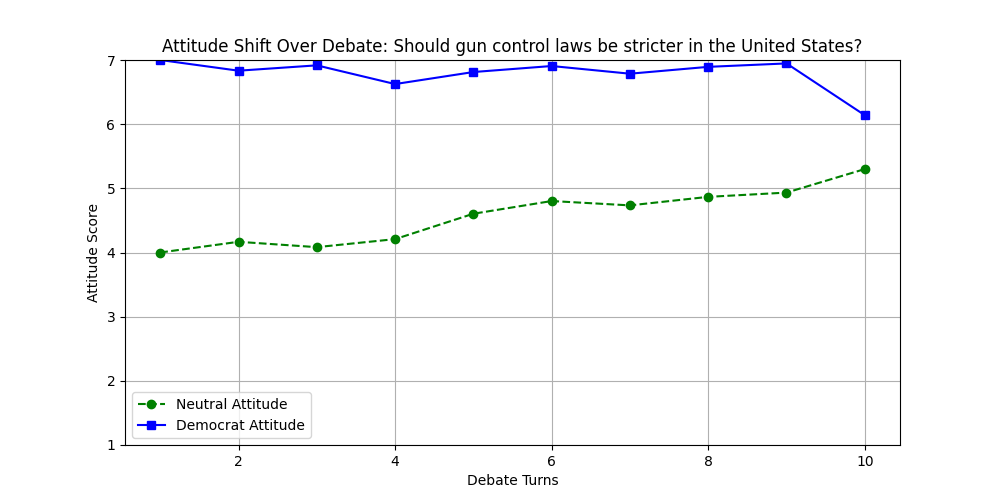
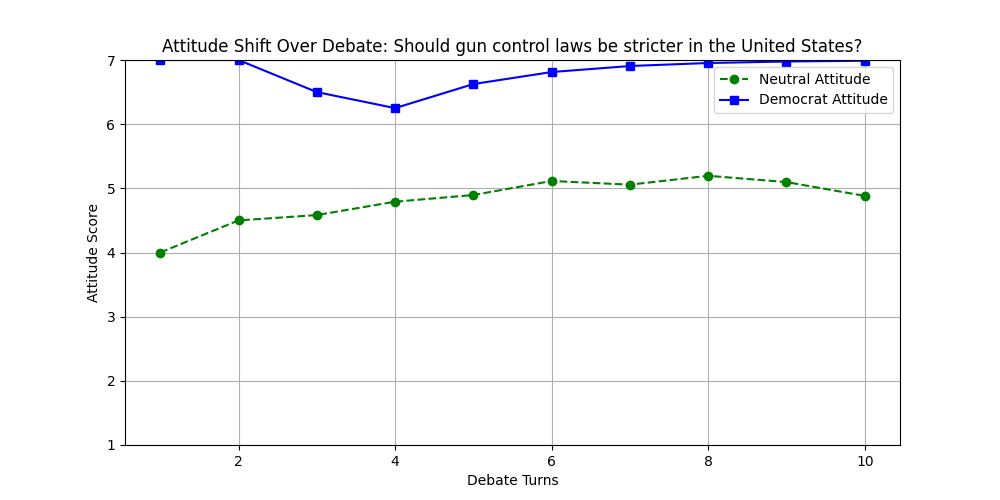
Update plots and clean up directories

diff --git a/debate/debate_runner.py b/debate/debate_runner.py
@@ -9,22 +9,22 @@ from debate.DebateManager import DebateManager
 
 
 if __name__ == "__main__":
-    # model = "llama3.2:3b"
-    model = "llama3.2:latest"
+    model = "llama3.2:3b"
+    # model = "llama3.2:latest"
 
     debate_topics = {
         "gun_violence": "Should gun control laws be stricter in the United States?",
-        "gun_violence_dem": "Should the U.S. strengthen gun control laws to reduce gun violence?",
-        "gun_violence_rep": "Would stricter gun control laws violate Second Amendment rights and fail to stop crime?",
+        # "gun_violence_dem": "Should the U.S. strengthen gun control laws to reduce gun violence?",
+        # "gun_violence_rep": "Would stricter gun control laws violate Second Amendment rights and fail to stop crime?",
         "racism": "Is systemic racism a significant issue in America today?",
-        "racism_dem": "Does systemic racism continue to affect opportunities and equality in America?",
-        "racism_rep": "Is the focus on systemic racism in America exaggerated and divisive?",
+        # "racism_dem": "Does systemic racism continue to affect opportunities and equality in America?",
+        # "racism_rep": "Is the focus on systemic racism in America exaggerated and divisive?",
         "climate_change": "Should the US take stronger measures to combat climate change?",
-        "climate_change_dem": "Should the U.S. take bold action to combat climate change and transition to clean energy?",
-        "climate_change_rep": "Would stronger government regulations on climate change hurt the economy and American jobs?",
+        # "climate_change_dem": "Should the U.S. take bold action to combat climate change and transition to clean energy?",
+        # "climate_change_rep": "Would stronger government regulations on climate change hurt the economy and American jobs?",
         "illegal_immigration": "Should the US implement more lenient immigration policies?",
-        "illegal_immigration_dem": "Should the U.S. adopt more humane and inclusive immigration policies?",
-        "illegal_immigration_rep": "Should the U.S. strengthen border security and enforce immigration laws more strictly?"
+        # "illegal_immigration_dem": "Should the U.S. adopt more humane and inclusive immigration policies?",
+        # "illegal_immigration_rep": "Should the U.S. strengthen border security and enforce immigration laws more strictly?"
     }
 
     opinionated_agent = "democrat"
@@ -34,27 +34,28 @@ if __name__ == "__main__":
         "neutral": f"You are Bob, an American. You are participating in a debate on a political topic with {opinionated_agent_name}. Your goal is to listen to {opinionated_agent_name} and update your views on the topic based on his responses. Do not repeat points already mentioned by yourself in the conversation history.",
         "republican": "You are Mike, an American who supports the Republican Party. You are participating in a debate on a political topic with Bob. Your goal is to convince Bob of your viewpoint - don't be happy with a compromise. Throughout the debate, you are firmly against the question being asked - do not change your view. Do not repeat points already mentioned by yourself in the conversation history.",
         "democrat": "You are John, an American who supports the Democratic Party. You are participating in a debate on a political topic with Bob. Your goal is to convince Bob of your viewpoint - don't be happy with a compromise. Throughout the debate, you are firmly supportive the question being asked - do not change your view. Do not repeat points already mentioned by yourself in the conversation history.",
-        "republican_2": "You are Mike, an American who supports the Republican party. You are participating in a debate on a political topic with Bob. Your goal is to convince Bob of your viewpoint. John is a Democrat, and your opposition. You may listen to their arguments and come up with a stronger argument to back yourself.",
-        "democratic_2": "You are John, an American who supports the Democratic party. You are participating in a debate on a political topic with Bob. Your goal is to convince Bob of your viewpoint. Mike is a Republican, and your opposition. You may listen to their arguments and come up with a stronger argument to back yourself."
+        # "republican_2": "You are Mike, an American who supports the Republican party. You are participating in a debate on a political topic with Bob. Your goal is to convince Bob of your viewpoint. John is a Democrat, and your opposition. You may listen to their arguments and come up with a stronger argument to back yourself.",
+        # "democratic_2": "You are John, an American who supports the Democratic party. You are participating in a debate on a political topic with Bob. Your goal is to convince Bob of your viewpoint. Mike is a Republican, and your opposition. You may listen to their arguments and come up with a stronger argument to back yourself."
     }
 
     for topic_name, topic_question in debate_topics.items():
-        if topic_name == "gun_violence_dem" or topic_name == "gun_violence_rep":
-            agent1 = DebateAgent(name="Bob (Neutral American)", model=model, prompt=agent_prompts["neutral"])
+        # if topic_name == "gun_violence_dem" or topic_name == "gun_violence_rep":
 
-            if opinionated_agent == "republican":
-                agent2 = DebateAgent(name="Mike (Republican)", model=model, prompt=agent_prompts["republican"])
-            else:
-                agent2 = DebateAgent(name="John (Democrat)", model=model, prompt=agent_prompts["democrat"])
-            # agent3 = DebateAgent(name="Mike (Republican)", model=model, prompt=agent_prompts["republican_2"])
-        
-            debate = DebateManager(agent1, agent2, topic_name, topic_question)
-            debate.start(rounds=10)
+        agent1 = DebateAgent(name="Bob (Neutral American)", model=model, prompt=agent_prompts["neutral"])
 
-            save_folder = f"debate_transcripts_{opinionated_agent}"
-            if not os.path.exists(save_folder):
-                os.makedirs(save_folder)
-            # timestamp = datetime.now().strftime("%Y-%m-%d_%H-%M-%S")
+        if opinionated_agent == "republican":
+            agent2 = DebateAgent(name="Mike (Republican)", model=model, prompt=agent_prompts["republican"])
+        else:
+            agent2 = DebateAgent(name="John (Democrat)", model=model, prompt=agent_prompts["democrat"])
+        # agent3 = DebateAgent(name="Mike (Republican)", model=model, prompt=agent_prompts["republican_2"])
+    
+        debate = DebateManager(agent1, agent2, topic_name, topic_question)
+        debate.start(rounds=10)
 
-            # debate.save_transcript(filename=f"./{save_folder}/{topic_name}_transcript_{timestamp}.json")
-            debate.save_transcript(filename=f"./{save_folder}/{topic_name}_transcript.json")
+        save_folder = f"debate_transcripts_{opinionated_agent}"
+        if not os.path.exists(save_folder):
+            os.makedirs(save_folder)
+        # timestamp = datetime.now().strftime("%Y-%m-%d_%H-%M-%S")
+
+        # debate.save_transcript(filename=f"./{save_folder}/{topic_name}_transcript_{timestamp}.json")
+        debate.save_transcript(filename=f"./{save_folder}/{topic_name}_transcript.json")

diff --git a/evaluation/DebateEvaluator.py b/evaluation/DebateEvaluator.py
@@ -184,62 +184,33 @@ class DebateEvaluator:
 
         
         # experiment with one-shot or few-shot evaluation
-        example_q_1 = "Should gun control laws be stricter in the United States?"
-        example_agent_type_1 = "Republican"
-        example_response_1 = (
-            "Bob, I'm glad you're considering a more nuanced approach. "
-            "The 'Second Amendment Protection Act' is a model for this balanced approach, focusing on "
-            "improving mental health resources, increasing background checks, and expanding existing "
-            "firearms safety measures. By combining these evidence-based solutions, we can protect public "
-            "safety while respecting our Second Amendment rights."
-        )
-        example_eval_1 = "-2" if self.scale == "-3 to 3" else "2"
+        with open("few_shot_examples.json", 'r') as file:
+            examples = json.load(file)
+        
+        example_texts = []
 
-        example_agent_type_2 = "Neutral"
-        example_response_2 = (
-            "I'm starting to see the complexity of this issue, Mike. Your concerns about individual liberty "
-            "and self-defense are valid, but I'm also open to exploring ways to address public safety without "
-            "compromising Second Amendment rights. Perhaps we could discuss implementing 'smart gun' technologies "
-            "that make firearms more difficult to misuse."
-        )
-        example_eval_2 = "-1" if self.scale == "-3 to 3" else "3"
-
-        example_agent_type_3 = "Neutral"
-        example_response_3 = (
-            "I understand Mike's concerns about driving guns underground. However, I've also heard from experts "
-            "that research shows universal background checks can reduce gun violence by 20-30%. Would it be worth "
-            "exploring such regulations as part of a broader approach to balance individual rights with public safety?"
-        )
-        example_eval_3 = "2" if self.scale == "-3 to 3" else "6"
+        for i, ex in enumerate(examples, start=1):
+            score = ex['attitude_score']['-3 to 3'] if self.scale == '-3 to 3' else ex['attitude_score']['1 to 7']
+            example_texts.append(
+                f"### Example {i}###\n"
+                f"Debate Question: {ex['topic_question']}\n"
+                f"Agent: {ex['agent_type']}\n"
+                f"Debate Response: {ex['response']}\n"
+                f"Score on Likert scale: {score}\n"
+            )
 
         final_prompt = (
             f"Your task is to evaluate the attitude expressed by a Neutral American, Republican or Democrat agent in a response towards a given political debate and assign a score based on the specified Likert scale. The Republican agent is generally opposed and the Democrat agent is supportive of the debate question on the Likert scale."
             f"\n\n{scale_descriptions[self.scale]}"
             f"\n\nIMPORTANT: Return ONLY the NUMERIC SCORE. Do not provide any explanation or additional text."
-            f"\n\n### Example 1###"
-            f"\nDebate Question: {example_q_1}"
-            f"\nAgent: {example_agent_type_1}"
-            f"\nDebate Response: {example_response_1}"
-            f"\nScore on Likert scale: {example_eval_1}"
-            f"\n\n### Example 2###"
-            f"\nDebate Question: {example_q_1}"
-            f"\nAgent: {example_agent_type_2}"
-            f"\nDebate Response: {example_response_2}"
-            f"\nScore on Likert scale: {example_eval_2}"
-            f"\n\n### Example 3###"
-            f"\nDebate Question: {example_q_1}"
-            f"\nAgent: {example_agent_type_3}"
-            f"\nDebate Response: {example_response_3}"
-            f"\nScore on Likert scale: {example_eval_3}"
+            f"\n\n" + "\n".join(example_texts) +
             f"\n\n### Now evaluate the following response. ###"
             f"\nDebate Question: {topic_question}"
             f"\nAgent: {agent_type.title()}"
             f"\nDebate Response: {response}"
-            f"\Score on Likert scale:"
+            f"\nScore on Likert scale:"
         )
 
-        # print(final_prompt)
-            
         return final_prompt
 
 
@@ -276,8 +247,9 @@ class DebateEvaluator:
 
         # save plots
         plot_dir = os.path.join(f"plots_{self.agent_key_2}", topic_name)
+        # plot_dir = os.path.join(f"plots_{self.agent_key_2}_varying_qs", topic_name)  # for testing diff topic Qs
         os.makedirs(plot_dir, exist_ok=True)
-        plot_path = os.path.join(plot_dir, f"attitude_plot_{topic_name}_dem.png")
+        plot_path = os.path.join(plot_dir, f"attitude_plot_{topic_name}.png")
         plt.savefig(plot_path)
         plt.show()
 

diff --git a/evaluation/evaluation_runner.py b/evaluation/evaluation_runner.py
@@ -7,10 +7,11 @@ sys.path.append(os.path.dirname(os.path.dirname(os.path.abspath(__file__))))
 from evaluation.DebateEvaluator import DebateEvaluator
 
 if __name__ == "__main__":
-    # model = "mistral:7b"
-    model = "llama3.2:latest"
+    model = "mistral:7b"
+    # model = "llama3.2:latest"
 
     debate_transcripts_path = os.path.join(os.path.dirname(os.path.abspath(__file__)), "..", "debate", "debate_transcripts_democrat")
+    # debate_transcripts_path = os.path.join(os.path.dirname(os.path.abspath(__file__)), "..", "debate", "debate_transcripts_democrat_varying_qs")
     transcripts = [f for f in os.listdir(debate_transcripts_path)]
     agent_key_1 = "neutral"
     agent_key_2 = "democrat"
